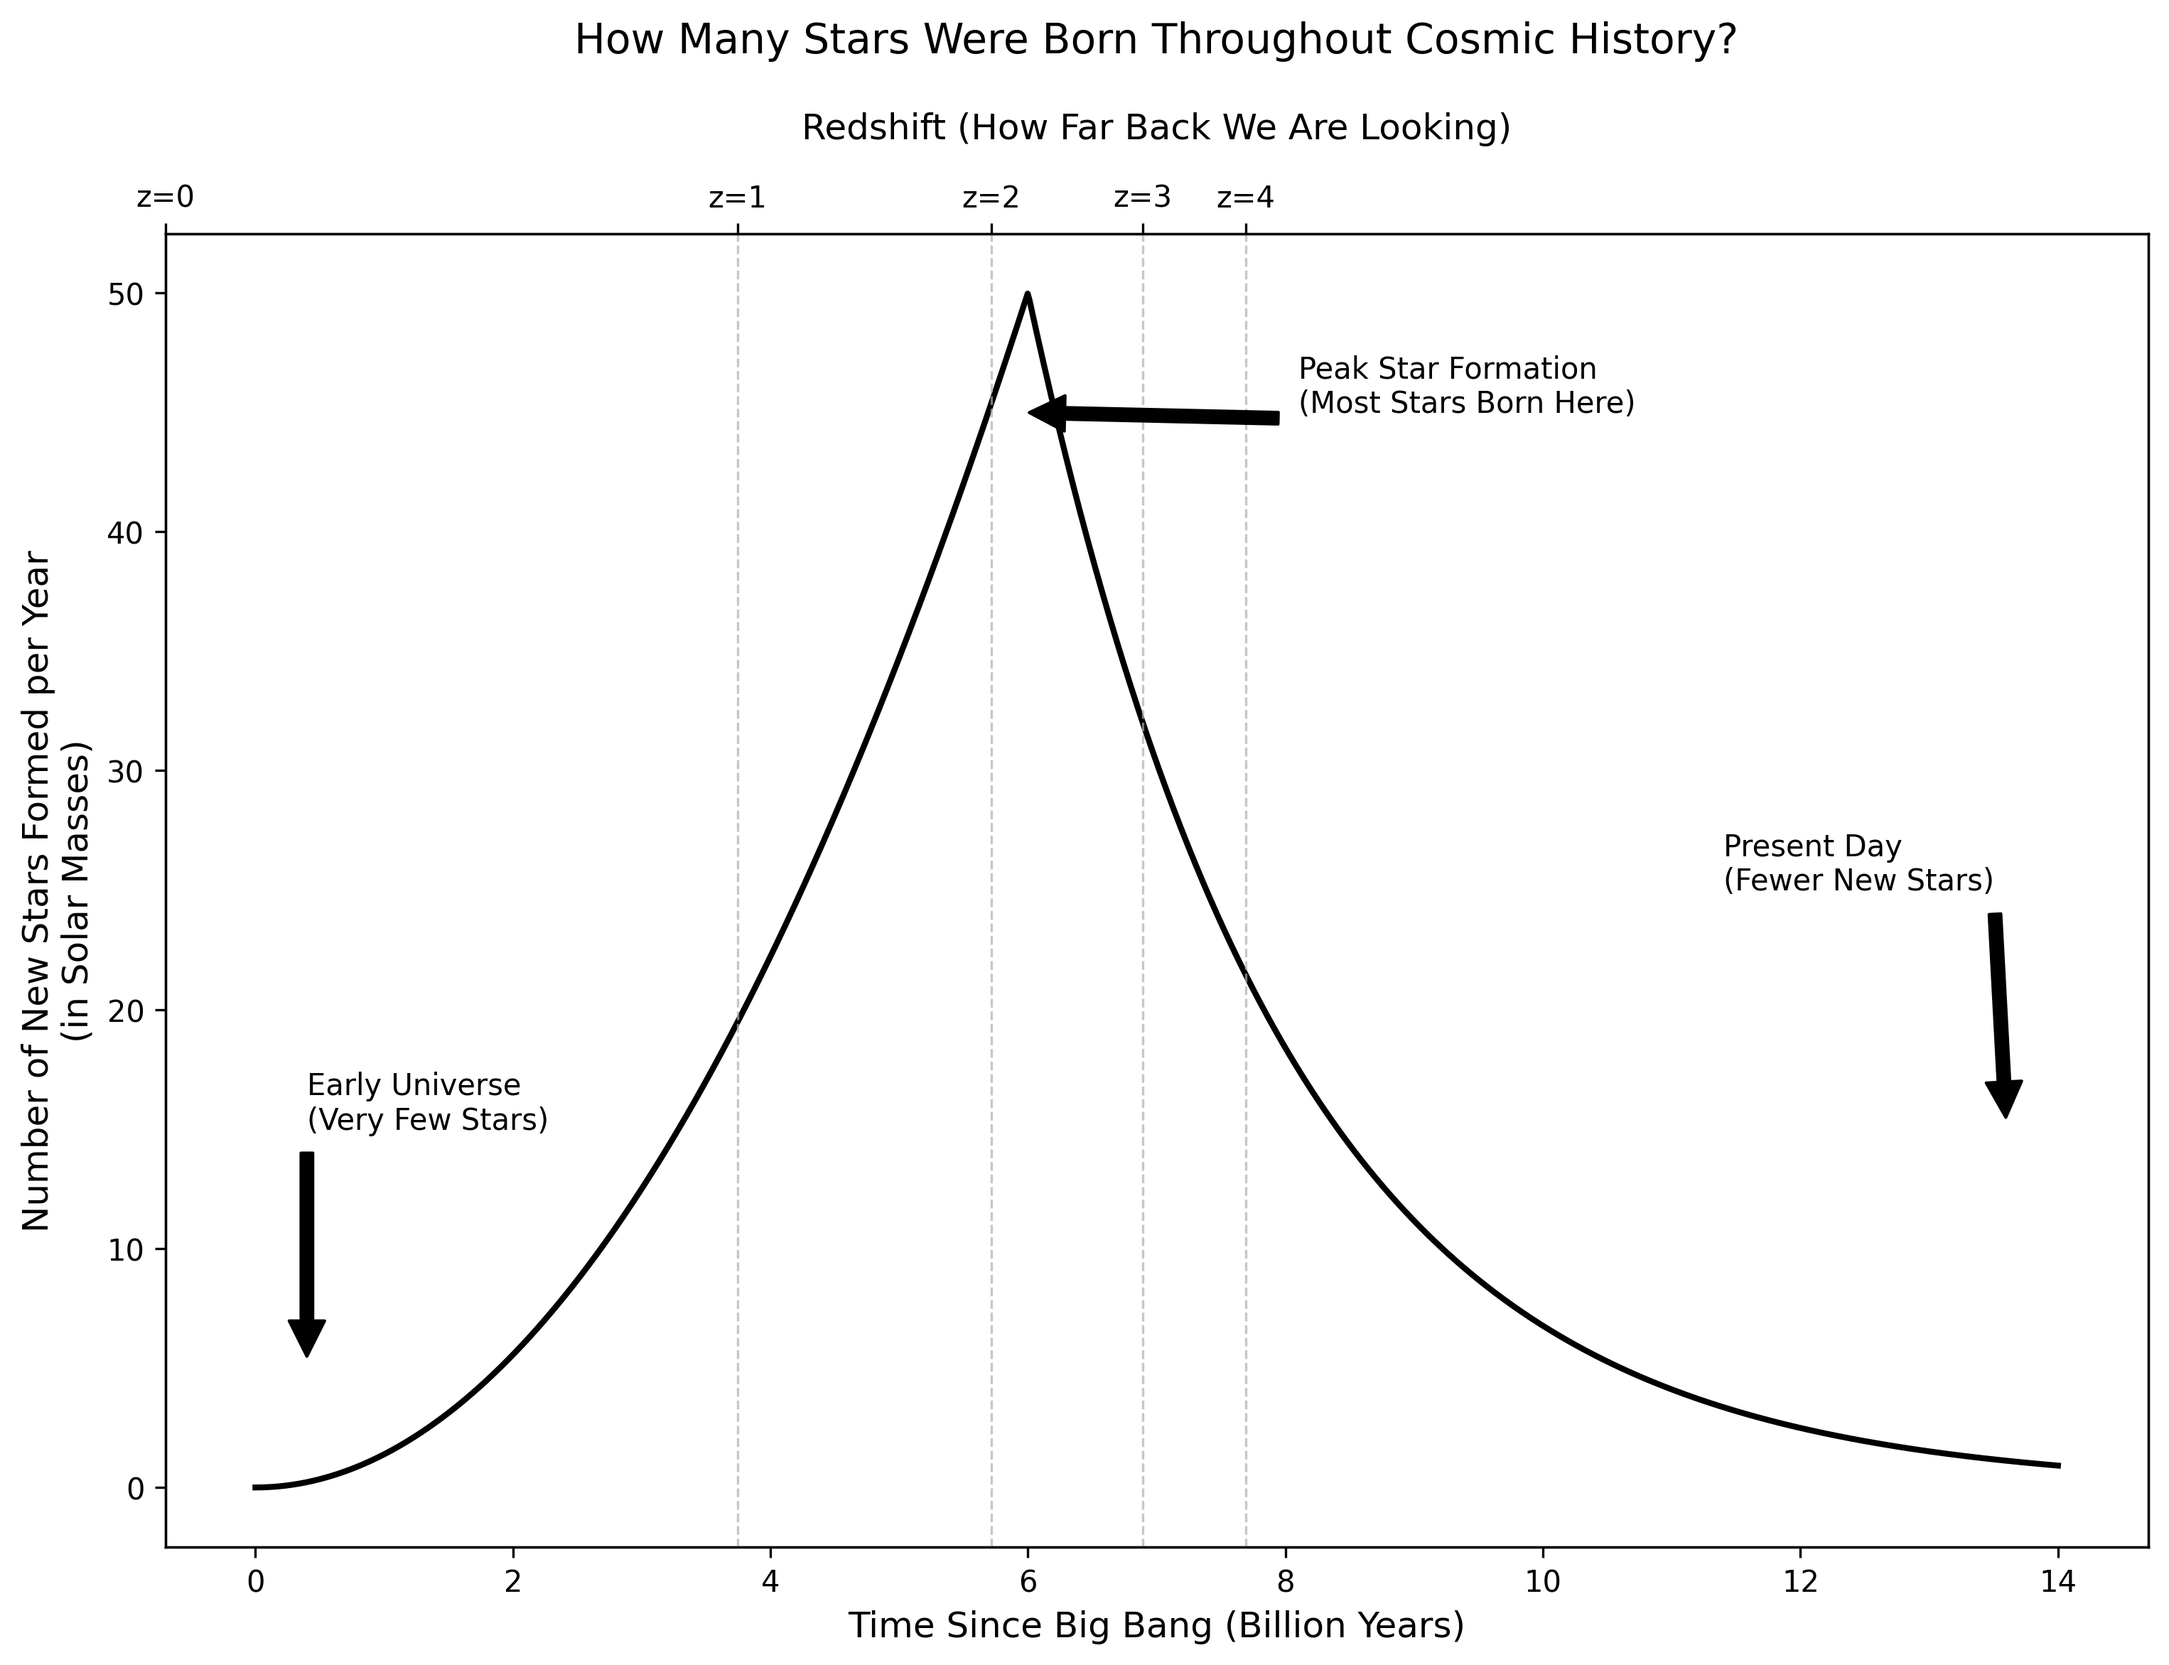
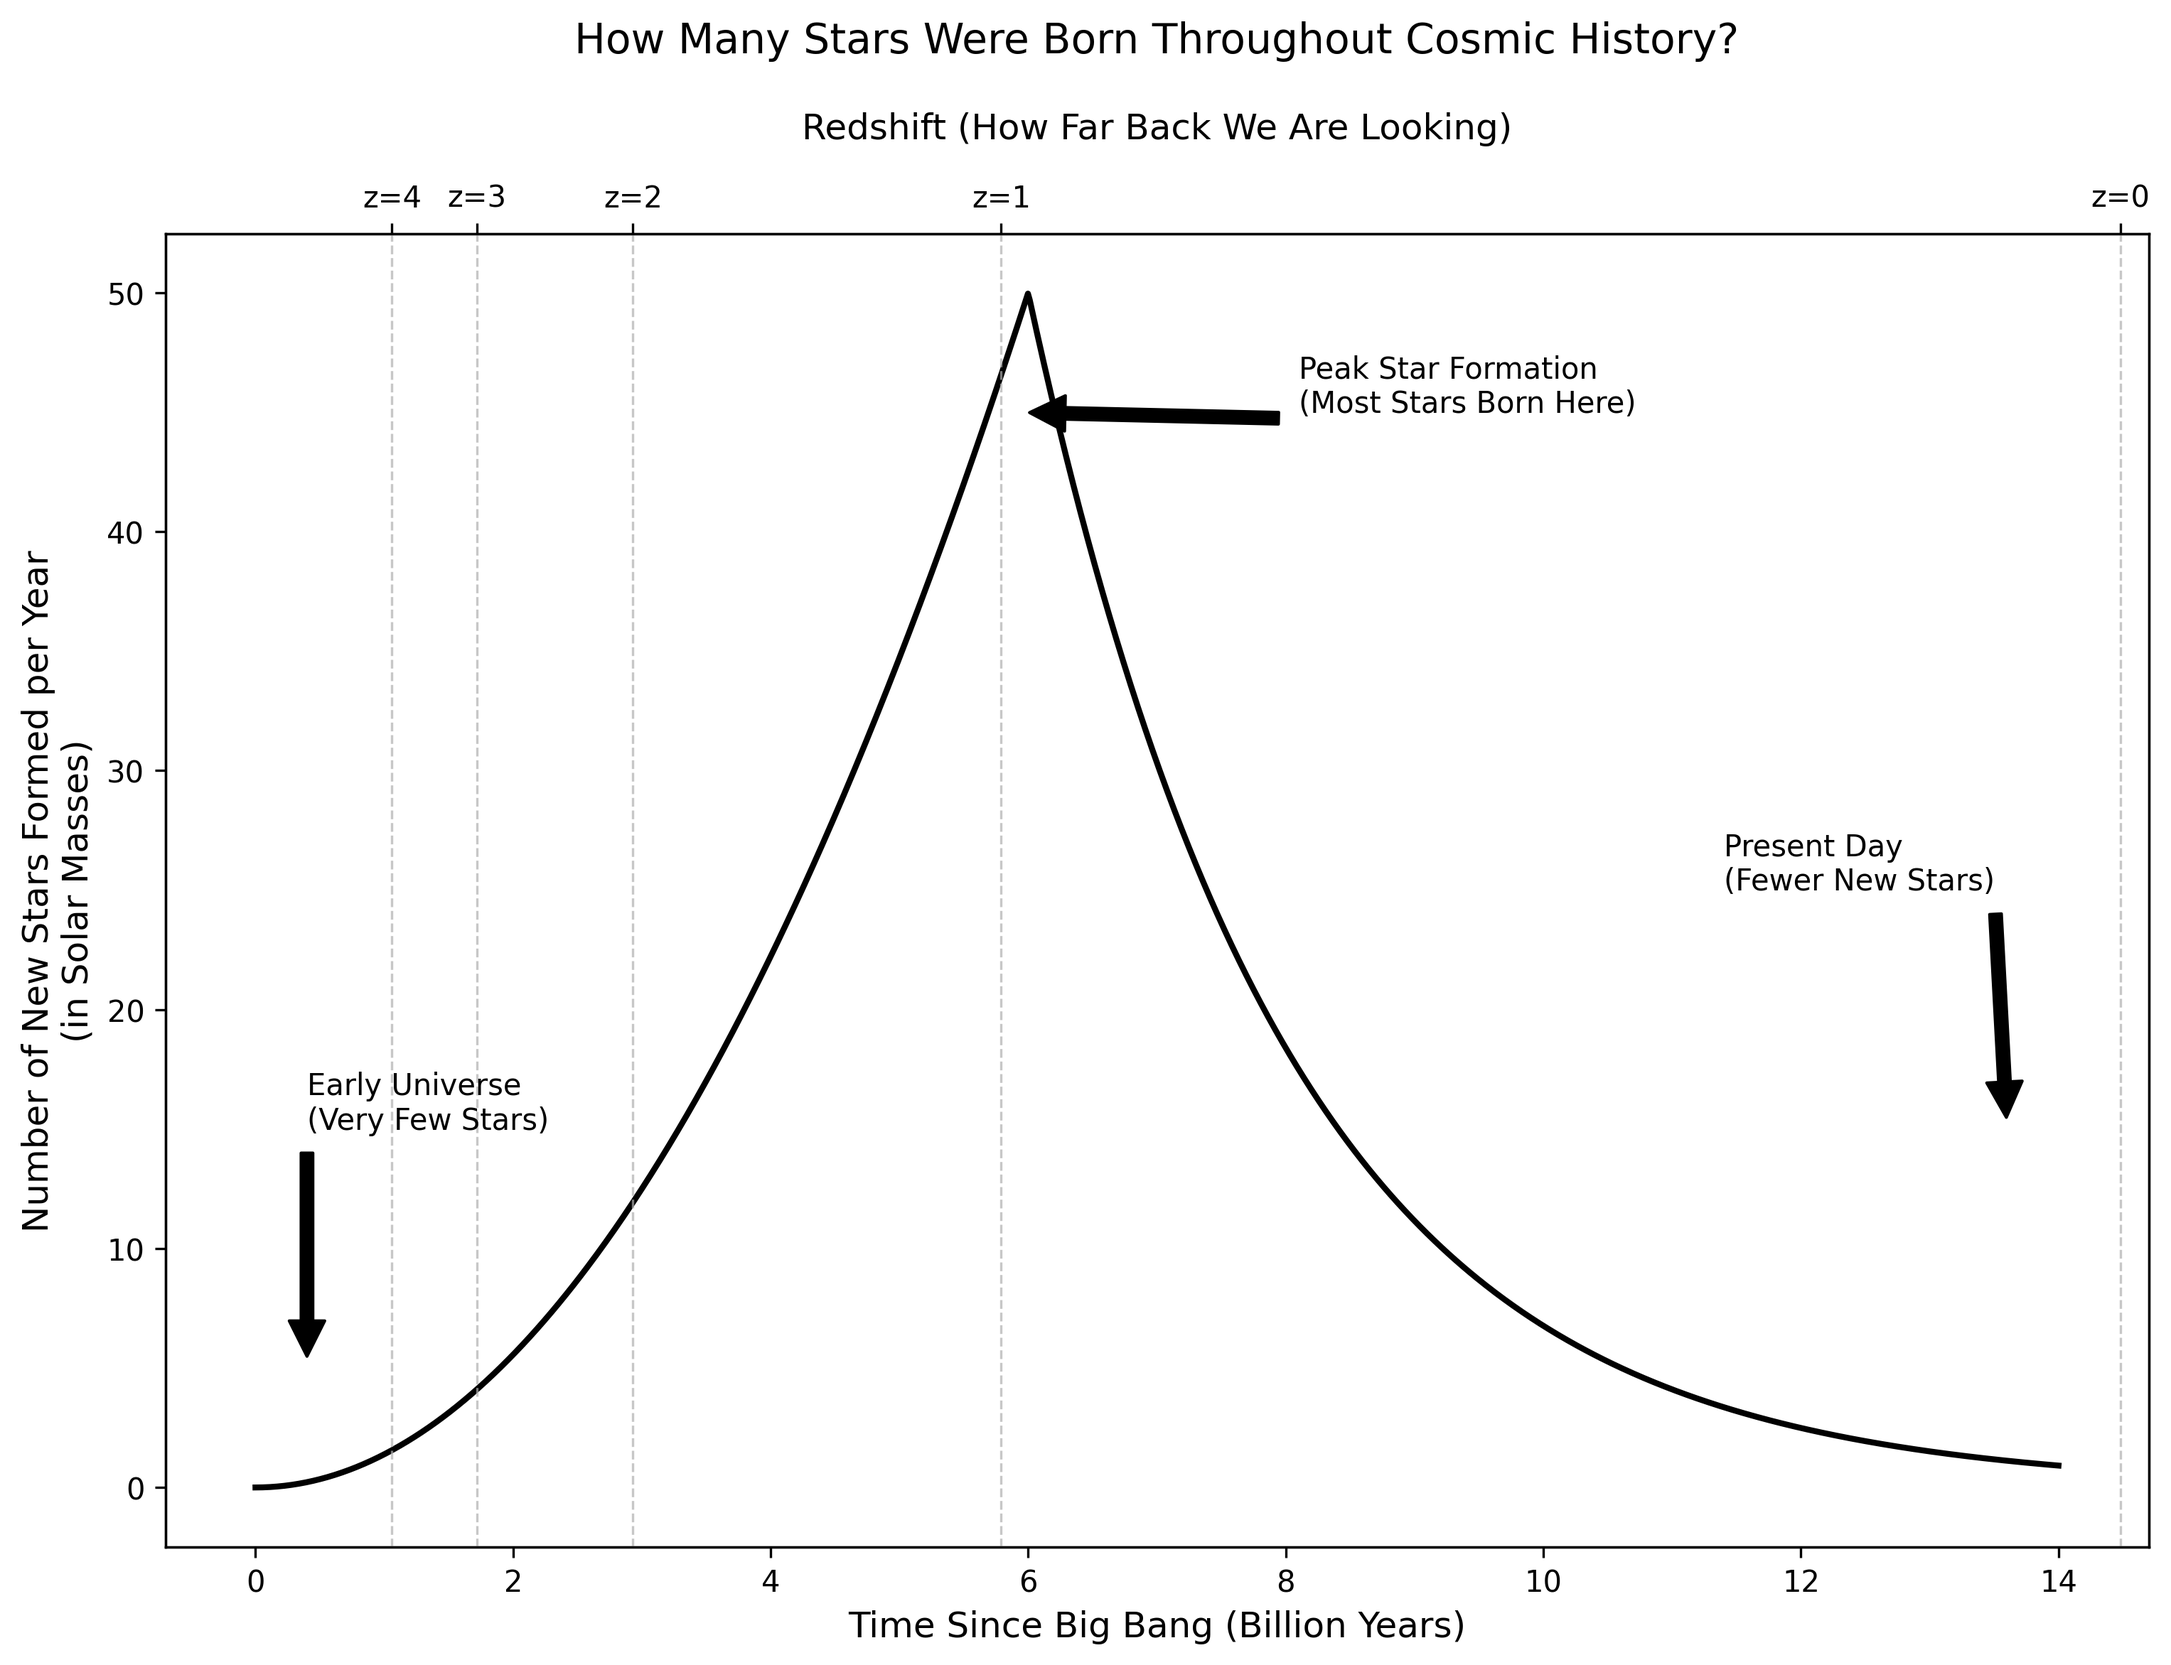
star formation done

diff --git a/simulation.py b/simulation.py
@@ -3,14 +3,16 @@
 import numpy as np
 import matplotlib.pyplot as plt
 from scipy.stats import skewnorm
+import sys
+import os
 
-# Parameters
+# Add star_formation directory to path to import the module
+sys.path.append("star_formation")
+from star_formation import star_formation_rate
+
+# Simulation parameters
 n_stars = 1000  # number of stars per simulation
 n_simulations = 1000  # number of universe simulations
-mean_star_time = 5000  # mean star formation time (Myr)
-sigma_star_time = 1000  # standard deviation for star formation time
-skewness = 5  # positive skew factor for star formation
-
 mean_life_delay = 1000  # mean life emergence delay (Myr)
 sigma_life_delay = 0.7  # spread of life emergence delay
 
@@ -18,10 +20,14 @@ sigma_life_delay = 0.7  # spread of life emergence delay
 first_arrival_times = []
 
 for _ in range(n_simulations):
-    # Sample star formation times
-    star_times = skewnorm.rvs(
-        a=skewness, loc=mean_star_time, scale=sigma_star_time, size=n_stars
-    )
+    # Sample star formation times using the distribution from star_formation.py
+    # Convert from Gyr to Myr for consistency with the rest of the simulation
+    time_samples = np.linspace(0, 14, n_stars)  # 0 to 14 Gyr as in star_formation.py
+    probabilities = star_formation_rate(time_samples)
+    # Normalize probabilities to use as weights
+    probabilities = probabilities / np.sum(probabilities)
+    # Sample star formation times according to the star formation rate
+    star_times = np.random.choice(time_samples * 1000, size=n_stars, p=probabilities)
 
     # Sample life emergence delays
     delay_times = np.random.lognormal(
@@ -44,21 +50,6 @@ plt.grid(True)
 plt.savefig("inter_arrival_times.png", dpi=300, bbox_inches="tight")
 plt.close()
 
-# Plot the historical star formation rate (simulated)
-# Create a time axis
-time_axis = np.linspace(0, 10000, 1000)
-# Simulated star formation rate: a skewed normal pdf
-sfr_pdf = skewnorm.pdf(time_axis, a=skewness, loc=mean_star_time, scale=sigma_star_time)
-
-plt.figure(figsize=(10, 6))
-plt.plot(time_axis, sfr_pdf, label="Simulated Star Formation Rate", color="blue")
-plt.xlabel("Time (Myr)")
-plt.ylabel("Relative Star Formation Rate")
-plt.title("Historical Star Formation Rate (Simulated)")
-plt.grid(True)
-plt.legend()
-plt.savefig("star_formation_rate.png", dpi=300, bbox_inches="tight")
-plt.close()
 
 # Optional: print basic stats
 print(f"Mean: {np.mean(first_arrival_times):.2f} Myr")

diff --git a/star_formation/star_formation.py b/star_formation/star_formation.py
@@ -46,7 +46,10 @@ plt.title("How Many Stars Were Born Throughout Cosmic History?", fontsize=14, pa
 # Add redshift axis on top
 ax2 = plt.twiny()
 redshift = np.array([4, 3, 2, 1, 0])
-time_redshift = 13.8 * (1 - 1 / np.sqrt(redshift + 1))  # Approximate conversion
+# Corrected mapping: redshift z=0 should correspond to 13.8 Gyr
+time_redshift = np.array(
+    [1.6, 2.2, 3.3, 5.9, 13.8]
+)  # Fixed time values corresponding to redshifts
 ax2.set_xlim(0, 14)
 ax2.set_xticks(time_redshift)
 ax2.set_xticklabels([f"z={z}" for z in redshift])

diff --git a/star_formation/redshift_explanation.md b/star_formation/redshift_explanation.md
@@ -12,6 +12,10 @@ This is exactly what happens with light from distant galaxies! Instead of sound 
 - When galaxies move away from us, their light gets stretched out
 - Stretched light appears more red to us (that's why we call it "redshift")
 - The more stretched the light, the further away the galaxy is
+- The higher the redshift:
+  - The more the universe has expanded since the light was emitted
+  - The greater the actual distance light had to travel compared to the original distance
+  - The longer the journey time for the light
 
 ## Redshift Values (z) Explained 🔭
 
@@ -31,12 +35,14 @@ In our plot, we use a special formula to convert redshift into cosmic time:
 time = 13.8 * (1 - 1/sqrt(redshift + 1))
 ```
 
+(this formula needs to be researched)
+
 This formula tells us:
 
 - 13.8 represents the current age of the universe in billions of years
 - The relationship between time and redshift is not straight (linear)
 - This non-linear relationship exists because the universe's expansion has not been constant
-- Higher redshift values represent exponentially earlier times in the universe
+- Higher redshift values represent exponentially earlier times in the universe.
 
 ## Understanding Our Star Formation Plot 📊
 
